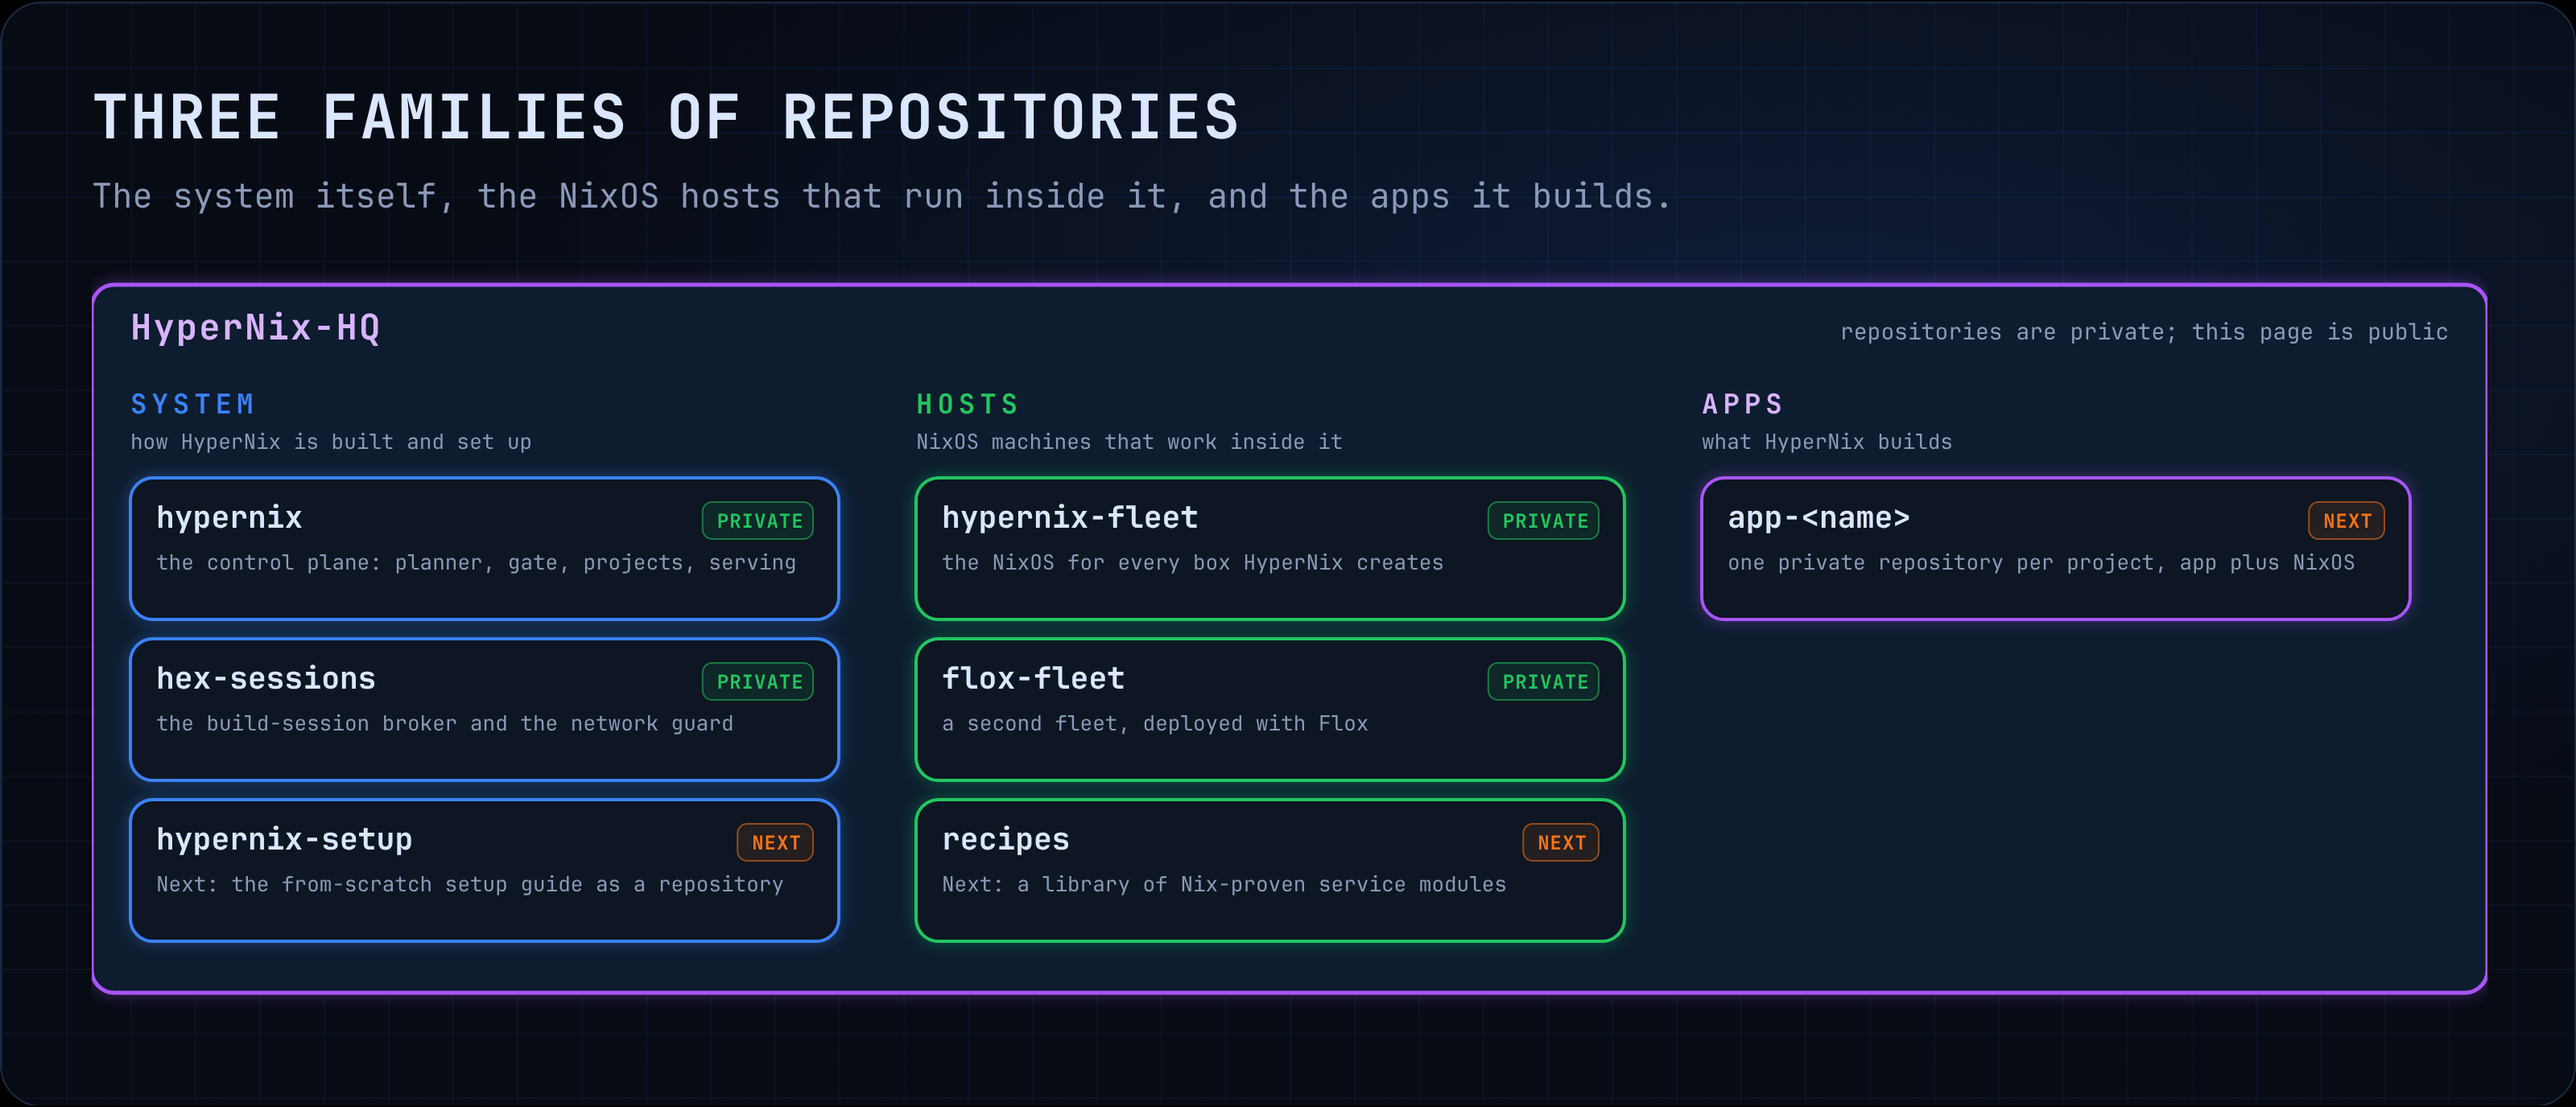
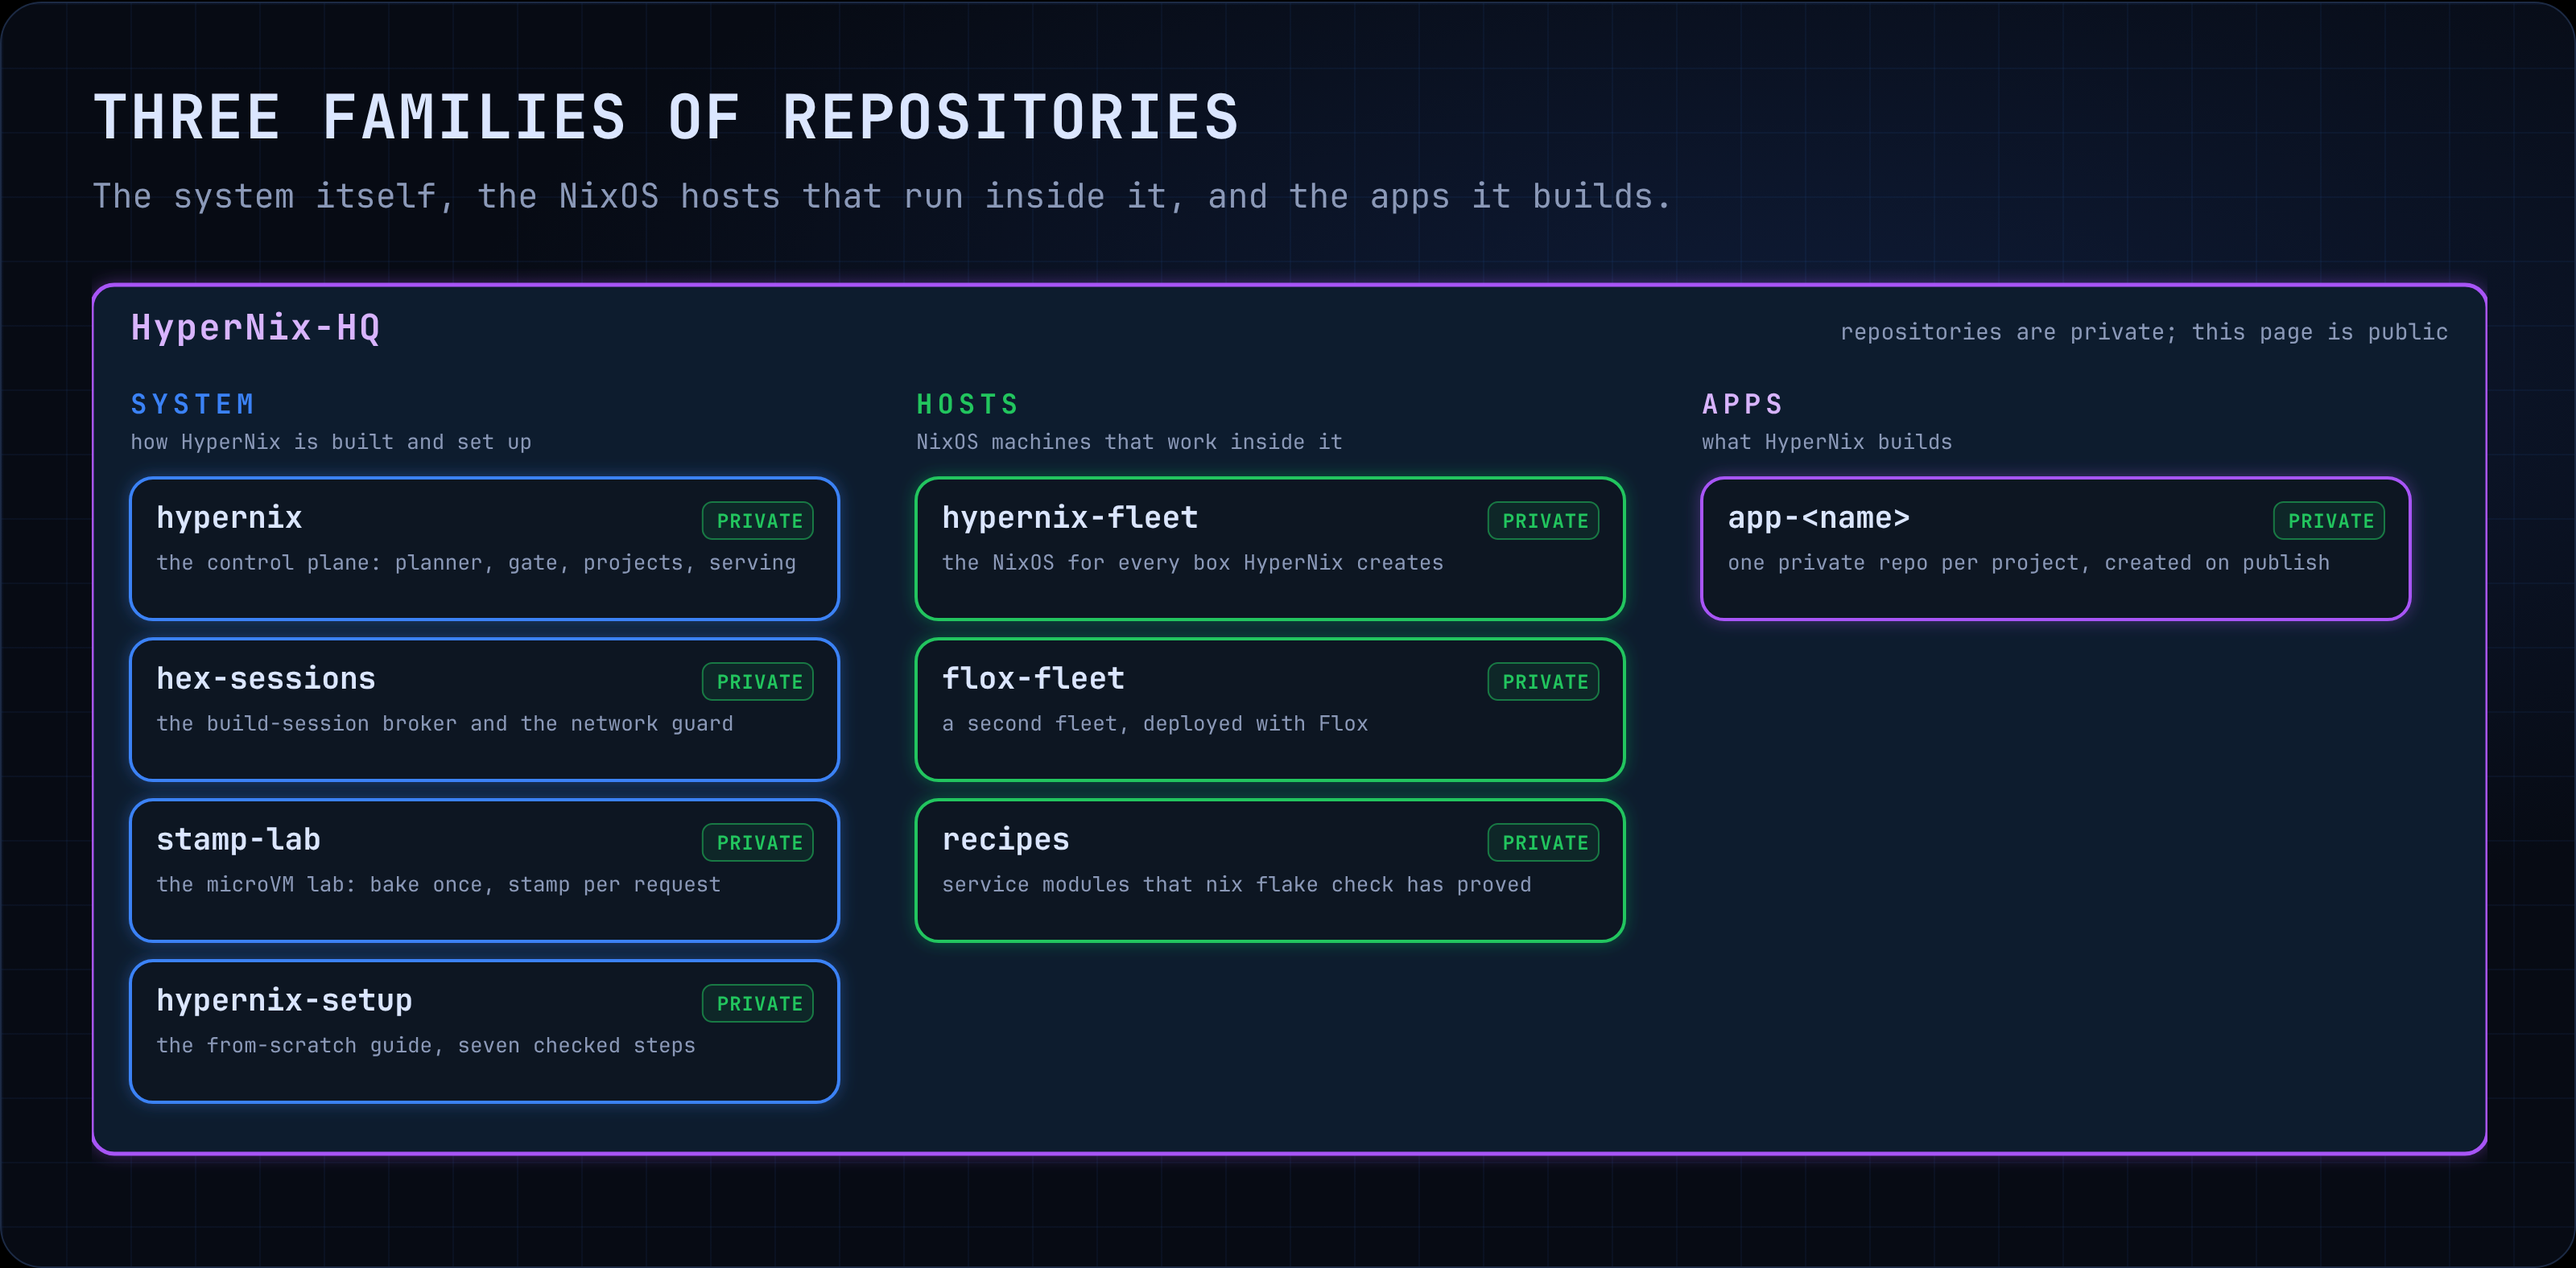
profile: the organization is complete (eight repositories), with its settings and what is next
WHAT: the repository table now lists stamp-lab, hypernix-setup and recipes as they are, the public .github repo, and says what the org enforces (two-factor, no default access, no Actions); Next is rewritten (front doors, first published app, booted recipe checks, a faster lab transport); pub-org figure updated.
WHY: Fred asked for all the org work. Scanned for internal addresses and personal details: none. No em dashes.
LR-T: org-profile, readme
LR-D: hypernix, github

Claude-Session: https://claude.ai/code/session_01BXN1v5brV3835XS92LMr27

diff --git a/profile/README.md b/profile/README.md
@@ -124,13 +124,15 @@ Measured with a real application, one request at a time and then under load:
 | --- | --- | --- | --- |
 | `hypernix` | System | The control plane: planner, approval gate, projects, landing, serving, ingress, the cockpit and the docs | Private |
 | `hex-sessions` | System | The build-session broker and the network guard | Private |
+| `stamp-lab` | System | The microVM lab: bake an app once, stamp a fresh Firecracker microVM per request | Private |
+| `hypernix-setup` | System | The from-scratch setup guide: seven steps, each ending in a check | Private |
 | `hypernix-fleet` | Hosts | The NixOS for every machine HyperNix creates | Private |
 | `flox-fleet` | Hosts | A second fleet, deployed with Flox | Private |
-| `hypernix-setup` | System | The from-scratch setup guide as a repository | Next |
-| `recipes` | Hosts | A library of Nix-proven service modules | Next |
-| `app-<name>` | Apps | One private repository per project HyperNix builds: the app plus its NixOS | Next |
+| `recipes` | Hosts | Four NixOS service modules, each proved by `nix flake check`: a sandbox baseline, a bun app, a local PostgreSQL, a static site | Private |
+| `app-<name>` | Apps | One private repository per project HyperNix builds: the app plus its NixOS. HyperNix creates it when it publishes the project | Private, created on publish |
+| `.github` | Profile | This page and the security policy | **Public** |
 
-The repositories are private. This page is the public front door.
+Every repository is private except `.github`, which is this page. The organization requires two-factor authentication, gives members no default access, and runs no GitHub Actions.
 
 ---
 
@@ -143,9 +145,9 @@ The repositories are private. This page is the public front door.
 ## Next
 
 - **The front doors.** Cloudflare Tunnel into the host and Fly.io per app for global reach, each behind a cost approval and a monthly spend cap.
-- **`hypernix-setup`.** The from-scratch guide, from a bare Proxmox host to a live HyperNix, in seven steps that each end in a check you can run.
-- **`recipes`.** A library of NixOS service modules that Nix has already proved.
-- **`app-<name>`.** Each project HyperNix builds, published here as its own private repository.
+- **The first published app.** The first project HyperNix publishes becomes the first `app-<name>` repository here.
+- **Booted checks for `recipes`.** Today a recipe is proved by evaluating it into a full system and asserting what comes out; the next step boots it in a container.
+- **A faster transport for the microVM lab.** A vsock channel in place of the serial console, which is where most of the 17 ms per later request goes.
 
 ---
 
